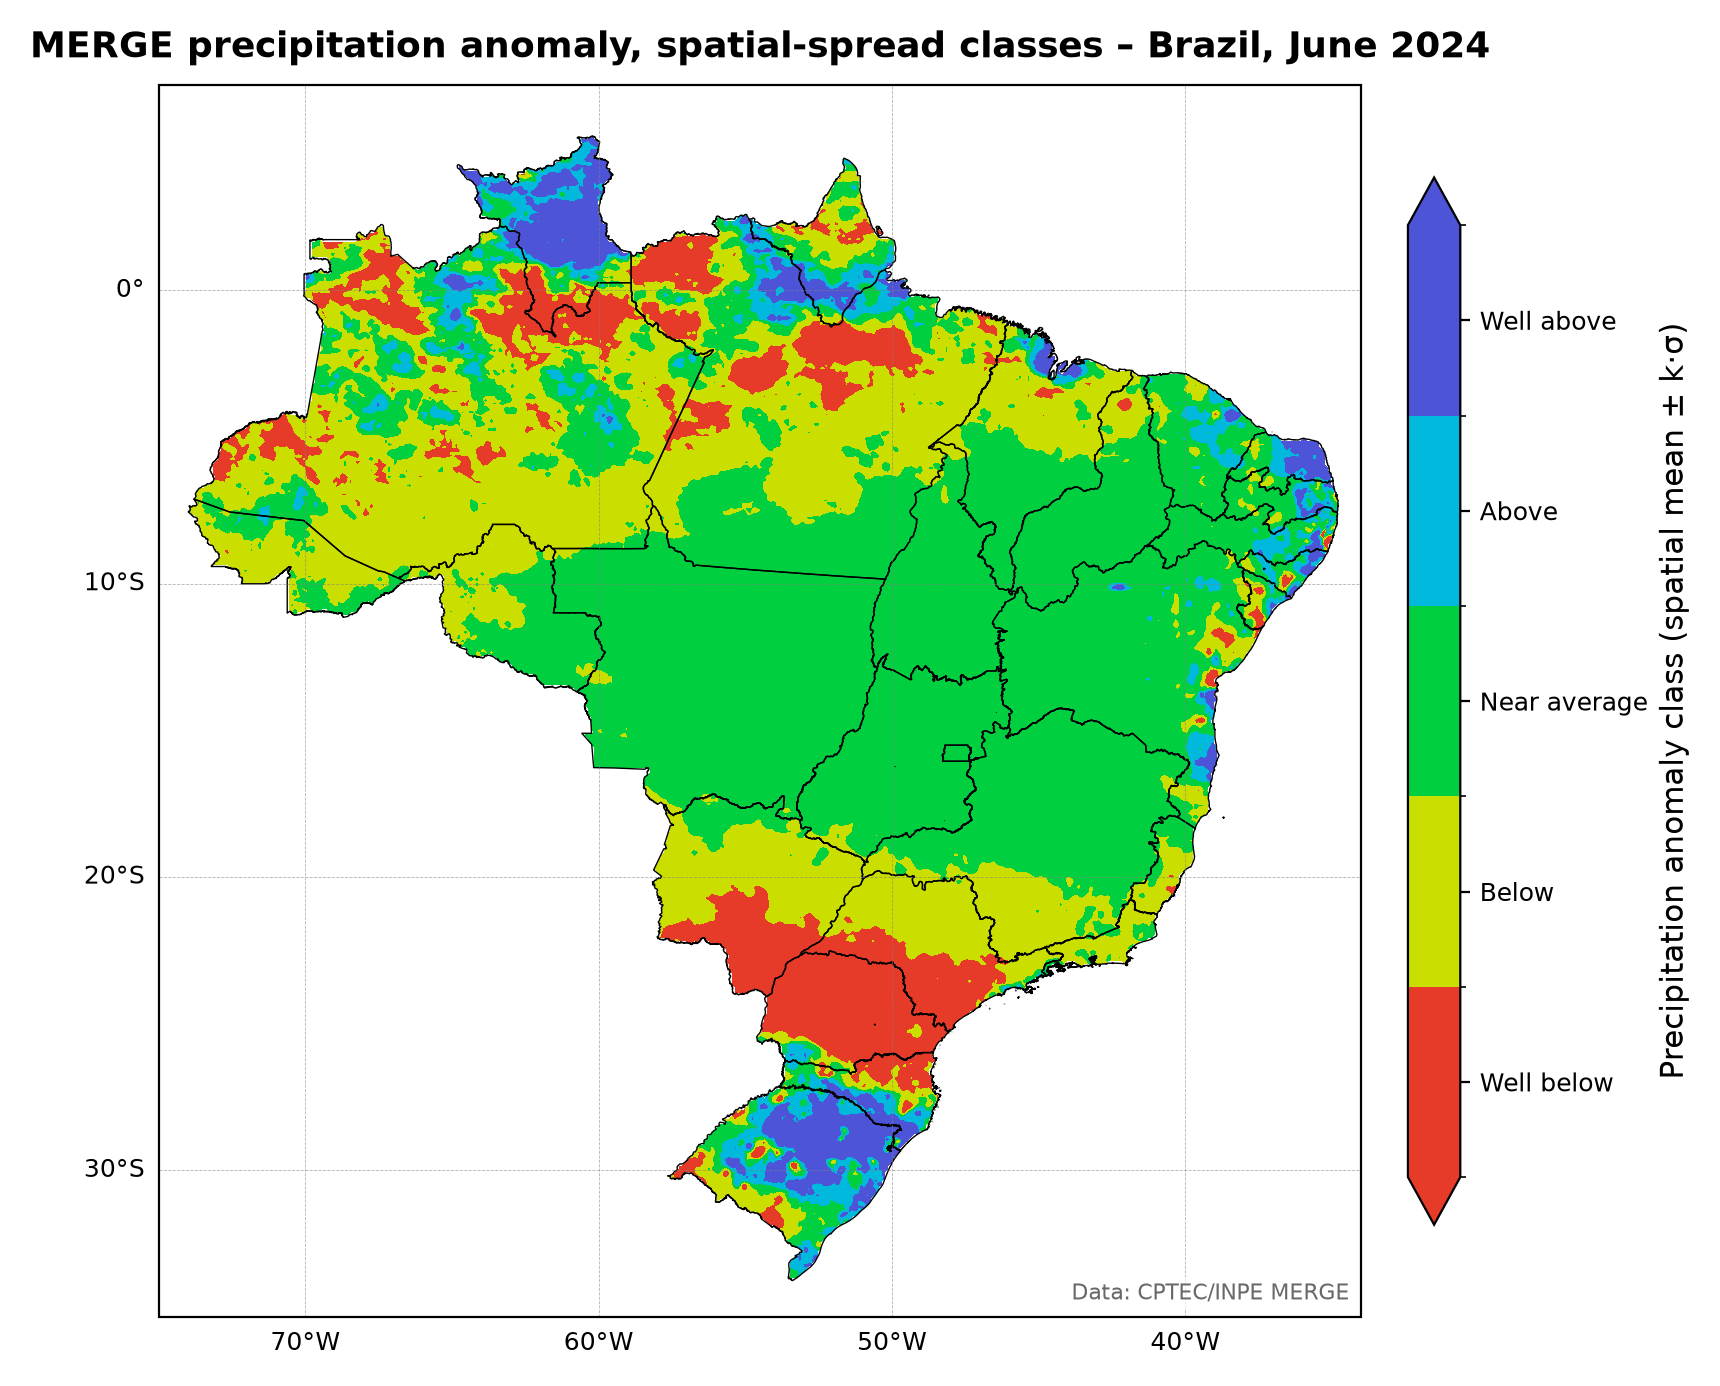
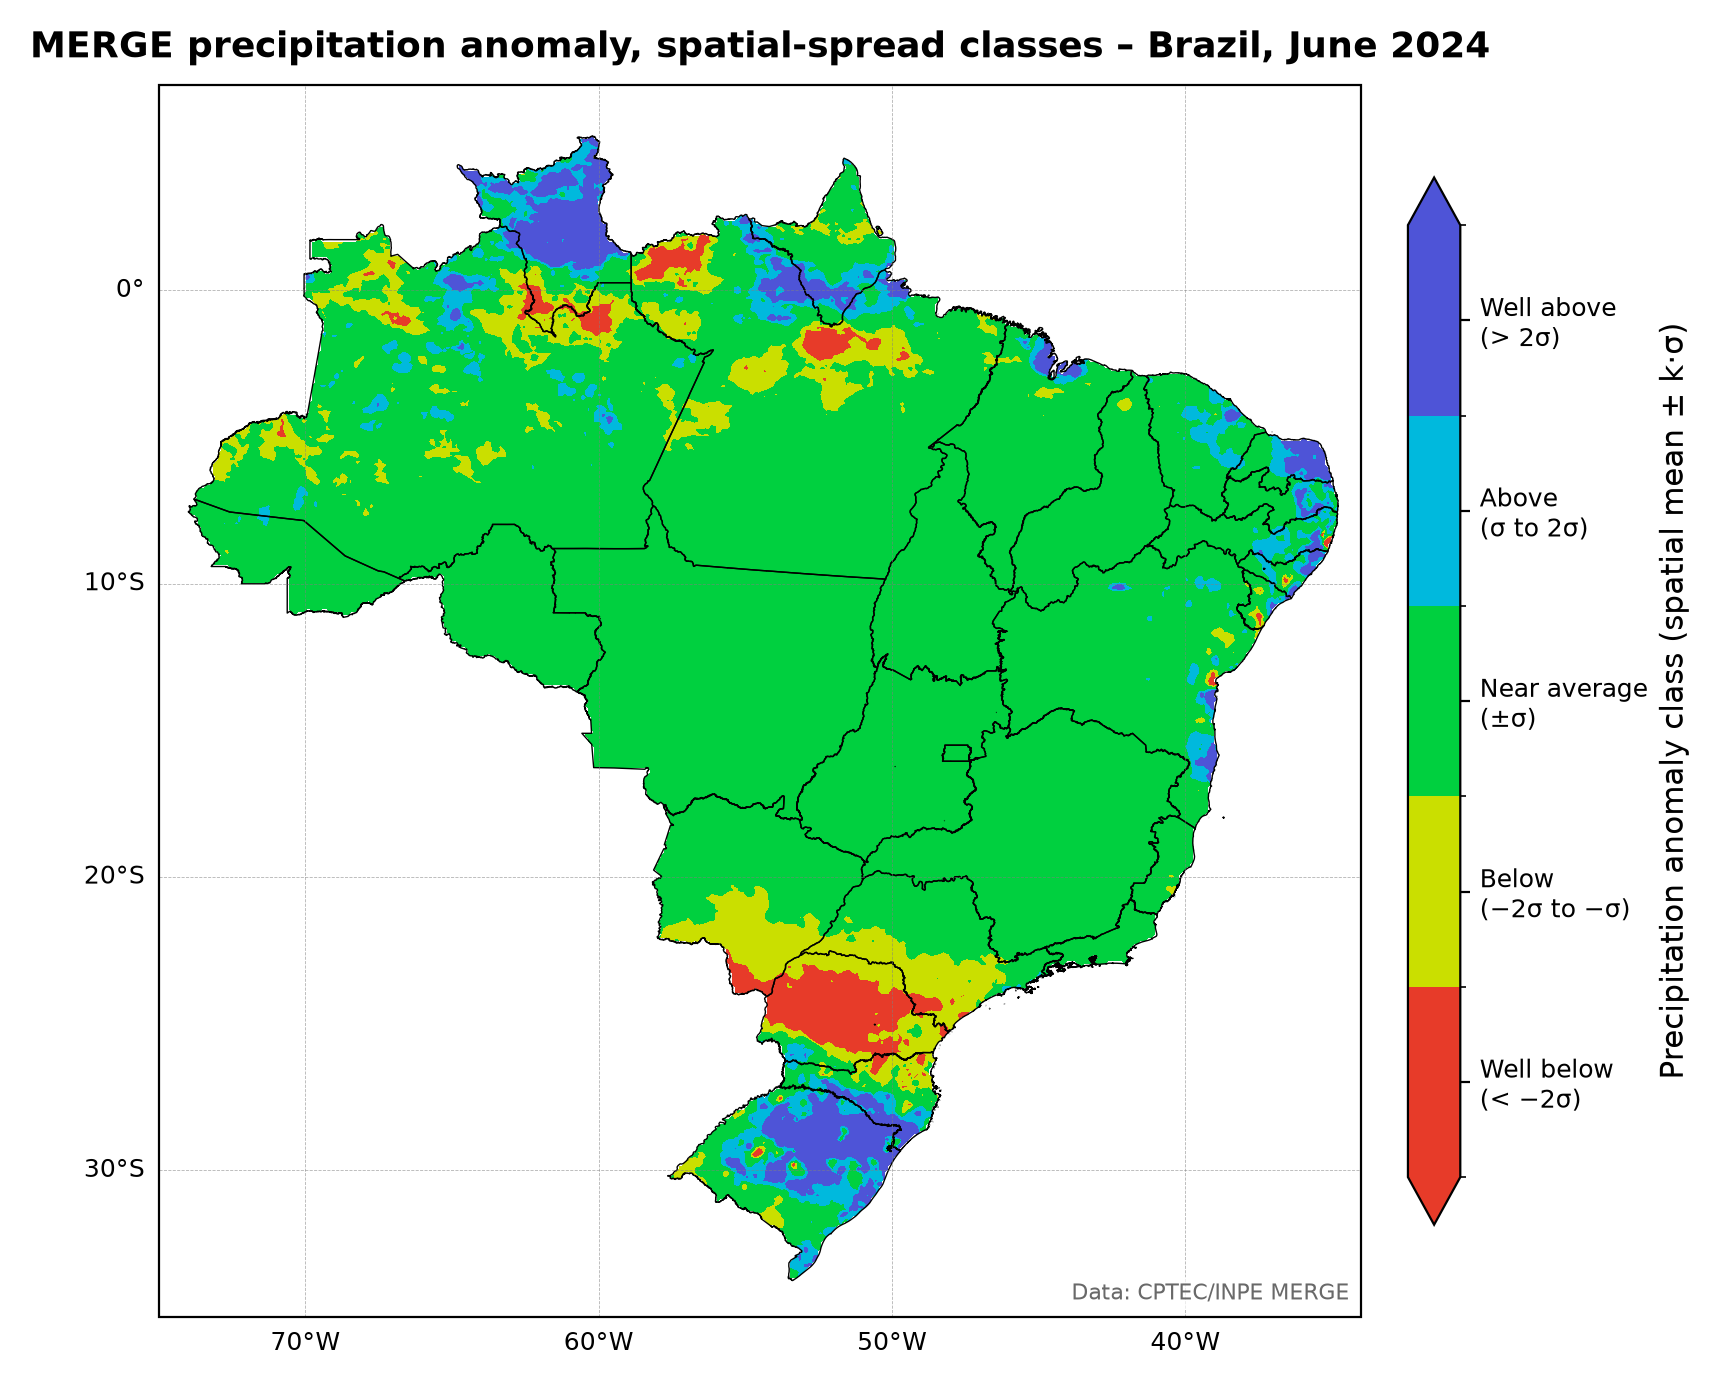
Categories map: classes symmetric about the spatial mean (±σ, ±2σ) with the bounds in the labels; June 2024 map regenerated

diff --git a/src/merge_cptec/colour_scales.py b/src/merge_cptec/colour_scales.py
@@ -23,9 +23,21 @@ BRAZIL_ACCUMULATION_LEVELS = (0, 20, 50, 80, 100, 150, 200, 300, 400, 500)
 #: Original ``anomalia_mm.py``.
 ANOMALY_LEVELS = (-400, -300, -200, -100, -75, -50, -25, -5, 0, 5, 25, 50, 75, 100, 200, 300, 400)
 
-#: Original ``anomalia_desvio.py``: five classes of the spatial mean ± k standard deviations.
+#: Five classes of the field's spatial mean m ± k standard deviations σ (colours of the
+#: original ``anomalia_desvio.py``). The classes are symmetric about the mean: below
+#: m − 2σ, m − 2σ to m − σ, m ± σ, m + σ to m + 2σ, above m + 2σ. (The original script
+#: used m + k·σ with k = −2…3, so "near average" was m to m + σ, entirely above the mean.)
 SPREAD_COLOURS = ("#E73B29", "#CADF00", "#00D03F", "#00B9DD", "#4E54D7")
-SPREAD_LABELS = ("Well below", "Below", "Near average", "Above", "Well above")
+SPREAD_LABELS = (
+    "Well below\n(< −2σ)",
+    "Below\n(−2σ to −σ)",
+    "Near average\n(±σ)",
+    "Above\n(σ to 2σ)",
+    "Well above\n(> 2σ)",
+)
+#: Class boundaries in units of σ around the mean. The outer ±3 only close the end classes
+#: for drawing: values beyond them keep the end colours ("well below/above" are open-ended).
+SPREAD_K = (-3.0, -2.0, -1.0, 1.0, 2.0, 3.0)
 
 
 @dataclass(frozen=True)
@@ -42,7 +54,7 @@ def colour_scale(product: str, region: str = "brazil") -> ColourScale:
     """Return the original colour scale for ``product`` (and ``region`` for accumulations).
 
     For ``anomaly-spread`` the levels are placeholders: the plot replaces them with the
-    field's spatial mean + k·std (k = −2…3), as in the original script.
+    field's spatial mean + k·std for k in :data:`SPREAD_K`.
     """
     from matplotlib import colormaps
     from matplotlib.colors import ListedColormap

diff --git a/src/merge_cptec/plotting.py b/src/merge_cptec/plotting.py
@@ -93,7 +93,8 @@ def plot_map(
         extend_colours: reserve distinct colours of ``cmap`` for the out-of-range
             arrows, as ``contourf(..., extend=...)`` does.
         spatial_spread: replace ``levels`` with the masked field's mean + k·std
-            (k = −2…3), i.e. classes of spatial spread. Requires ``shapefile``.
+            (k in ``colour_scales.SPREAD_K``, symmetric about the mean), i.e. classes
+            of spatial spread. Requires ``shapefile``.
 
     Raises:
         ValueError: on inconsistent grids, bad shapefiles or an all-missing field.
@@ -133,7 +134,9 @@ def plot_map(
         mean, std = np.nanmean(values), np.nanstd(values)
         if std == 0:
             raise ValueError("Spatial spread is zero: the field is constant over the region")
-        levels = mean + np.arange(-2, 4) * std
+        from .colour_scales import SPREAD_K
+
+        levels = mean + np.asarray(SPREAD_K) * std
     output = Path(output)
     output.parent.mkdir(parents=True, exist_ok=True)
     with mpl.rc_context(STYLE):

diff --git a/docs/VALIDATION.md b/docs/VALIDATION.md
@@ -81,3 +81,10 @@ probability.
 - Climatology period: CPTEC's read-me for `CLIMATOLOGY/MONTHLY_ACCUMULATED` gives 1998–2024,
   which includes the 2024 months mapped here; now stated in the README.
 - `make figures` rebuilt both anomaly NetCDF files byte-identical.
+- Categories map (`anomaly-spread`), approved change of the class bounds: the original script
+  used m + k·σ with k = −2…3, so "near average" was m to m + σ (entirely above the mean) and
+  "well below" started at m − σ while "well above" needed m + 2σ. The classes are now symmetric
+  about the mean: < m − 2σ, m − 2σ to m − σ, m ± σ, m + σ to m + 2σ, > m + 2σ, with the same
+  five colours; the colorbar labels give the bounds. `figures/precipitation_anomaly_spread_jun_2024.png`
+  regenerated: most of the country is now "near average"; the extremes are a dry area over
+  southern Paraná and Santa Catarina and wet areas over northern Rio Grande do Sul and Roraima.

diff --git a/README.md b/README.md
@@ -20,7 +20,8 @@
 - **Accumulation**: sums the daily MERGE GRIB2 files in a folder into a period total (mm).
 - **Anomaly**: subtracts the monthly climatology (`precacum`) from that total and saves it as
   NetCDF (`anomaly-netcdf`), then maps it in mm (`anomaly`) or in classes of the field's
-  spatial mean ± standard deviation (`anomaly-spread`).
+  spatial mean m ± standard deviation σ (`anomaly-spread`): well below (< m − 2σ), below
+  (m − 2σ to m − σ), near average (m ± σ), above (m + σ to m + 2σ), well above (> m + 2σ).
 - **Climatology**: maps a monthly climatology file.
 - Masks the maps to Brazil or to the North region (AC, AP, AM, PA, RO, RR, TO) with the IBGE
   state boundaries, and draws state borders, coastline, lat/lon labels, units and a source credit.
